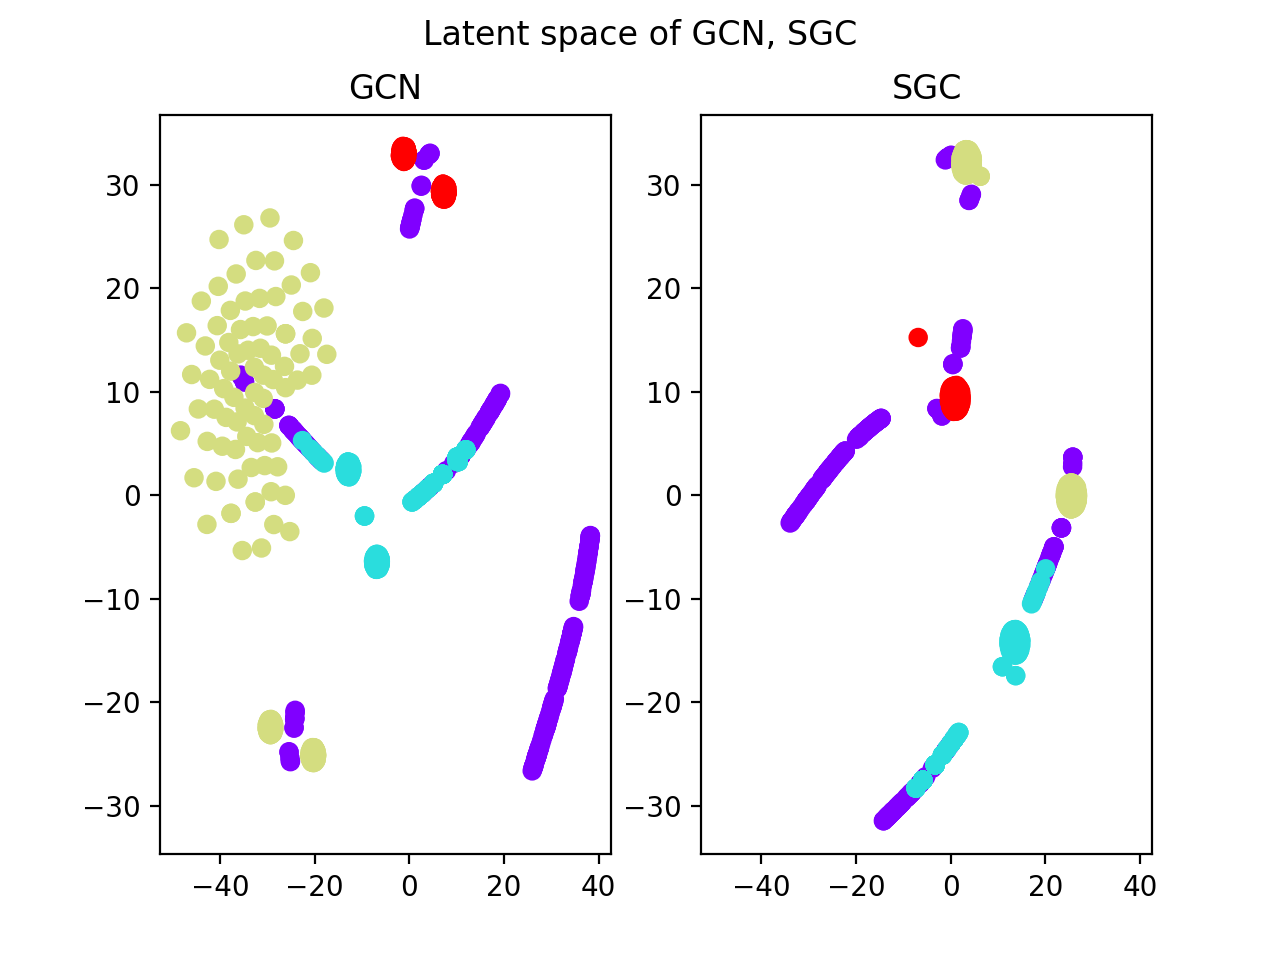
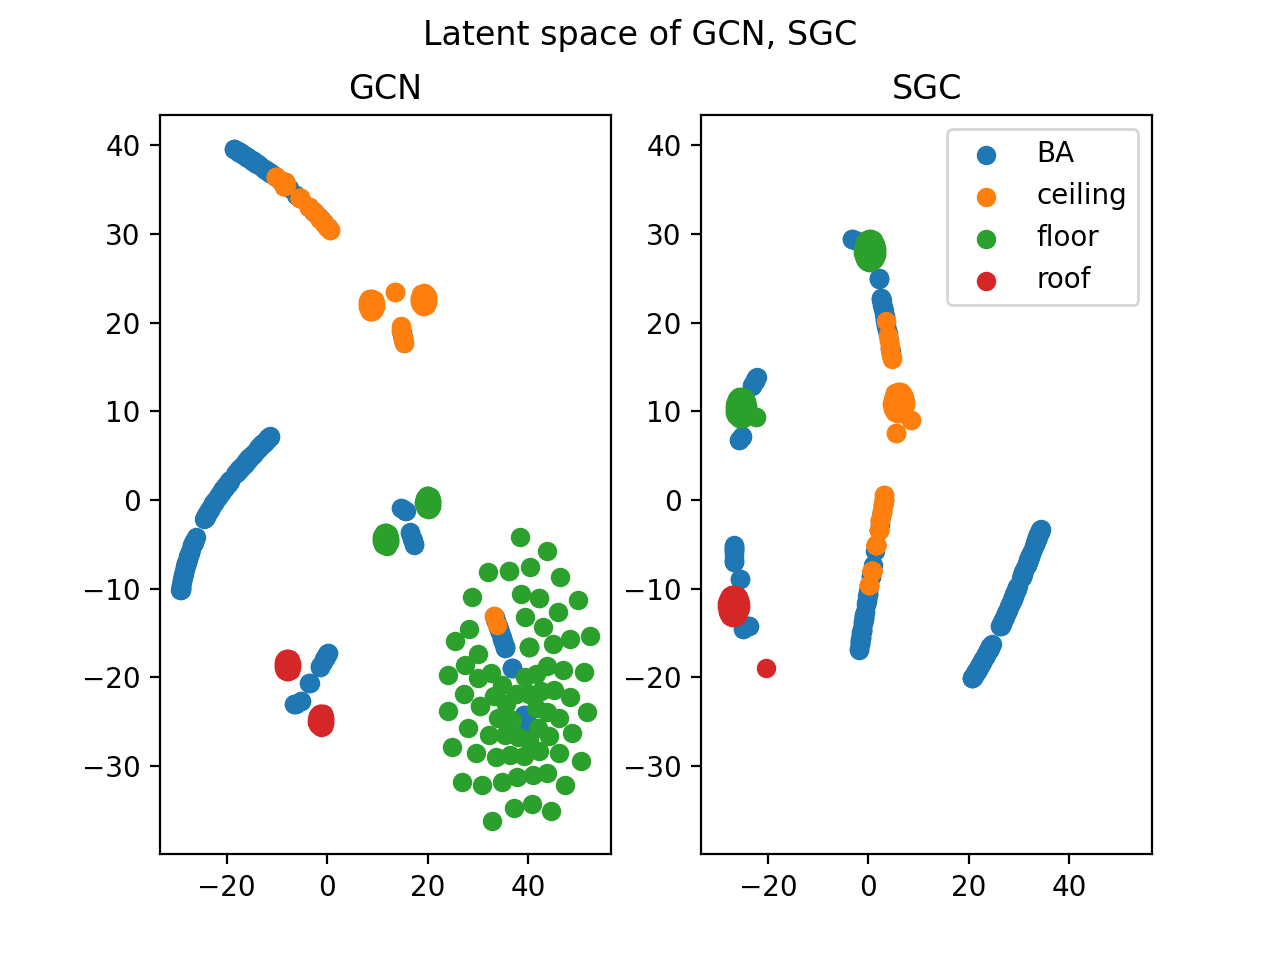
Better latent space figures

diff --git a/src/concepts/plotting.py b/src/concepts/plotting.py
@@ -4,6 +4,7 @@ import os.path as osp
 from torch_geometric.data import Data
 from tqdm import tqdm
 
+import torch
 from torch import argmax
 
 import matplotlib.pyplot as plt
@@ -159,11 +160,13 @@ def plot_samples(clustering_model: KMeans,
 
 def plot_latent_space(latent_data_list: List[NDArray],
                       labels: Tensor,
+                      label_names: List[str],
                       save_path: str,
                       names: List[str]) -> None:
     """Plot the 2D dimensionality reductions to visualise the latent space of different models and layers.
     INPUT
         latent_data     : The list of DR data
+        label_names     : Names for the labels
         data            : The labels for the dataset
         save_path       : The path to save the figures
     OUTPUT
@@ -172,10 +175,15 @@ def plot_latent_space(latent_data_list: List[NDArray],
     fig: FigureBase
     fig, axes = plt.subplots(1, len(latent_data_list), dpi=200)
     fig.suptitle(f'Latent space of {", ".join(names)}')
+    colors = ["tab:blue", "tab:orange", "tab:green", "tab:red"]
 
     name: Iterable = iter(names)
     for ax, data in zip(axes, latent_data_list):
-        ax.scatter(data[:,0], data[:,1], c=labels, cmap='rainbow')
+        for i in range(torch.max(labels) + 1):
+            ax.scatter(data[labels == i,0],
+                       data[labels == i,1],
+                       c=colors[i],
+                       label=label_names[i])
         ax.set_title(next(name))
 
     # For easier comparison keep the axes the same width and height
@@ -188,5 +196,6 @@ def plot_latent_space(latent_data_list: List[NDArray],
         ax.set_xlim(x_min, x_max)
         ax.set_ylim(y_min, y_max)
 
+    axes[1].legend()
     plt.savefig(osp.join(save_path, f"latent_space.png"))
 

diff --git a/diss/chapters/evaluation.tex b/diss/chapters/evaluation.tex
@@ -399,7 +399,7 @@ This presents the major issue with this technique which is that unfortunately SG
 
 Figure \ref{fig:SGCN-SGC-latent-space} demonstrates that the second layer of SGCN is very similar to that of SGC.
 This makes sense as the previous layer was an SGC layer and so the GCN layer is working from a different feature space.
-Notice the spread yellow labelled nodes \note{Include the labels please!!} which is also present in the GCN layers in \ref{fig:SGC-GCN-latent-space} and \ref{fig:SGCN-GCN-latent-space}.
+Notice the spread green labelled nodes (representing the house motif ``floor'') which is also present in the GCN layers in \ref{fig:SGC-GCN-latent-space} and \ref{fig:SGCN-GCN-latent-space}.
 Figure \ref{fig:SGCN-GCN-latent-space} shows that by the third and final layer of SGCN is very similar to that of GCN.
 Given the increase in performance by SGCN demonstrated in table \ref{tab:SGCN-acc} this likely to be a more optimal space.
 

diff --git a/src/similarity.py b/src/similarity.py
@@ -134,7 +134,19 @@ def main(args: Namespace,
 
     # t-SNE dimensionality reduction to visualise the latent space
     latent_data = tsne_reduction([activation_list1[best_layer[0]], activation_list2[best_layer[1]]], 2)
-    plot_latent_space(latent_data, labels, save_path, save_name.split("-")[:-2])
+
+    if dataset_name == "BA-Shapes":
+        plot_latent_space(latent_data,
+                          labels,
+                          ["BA", "ceiling", "floor", "roof"],
+                          save_path,
+                          save_name.split("-")[:-2])
+    else:
+        plot_latent_space(latent_data,
+                          labels,
+                          ["base", "motif"],
+                          save_path,
+                          save_name.split("-")[:-2])
 
 
 if __name__=='__main__':

diff --git a/diss/tables/motifs.tex b/diss/tables/motifs.tex
@@ -1,0 +1,17 @@
+\begin{table}
+    \centering
+    \begin{tabular}{cccc}
+        \textbf{Shape (House)} &
+        \textbf{Community} &
+        \textbf{Grid} &
+        \textbf{Cycle}\\
+        \midrule
+        \includegraphics[width=0.2\textwidth]{figures/house.png} &
+        \includegraphics[width=0.2\textwidth]{figures/community.png} &
+        \includegraphics[width=0.2\textwidth]{figures/grid.png} &
+        \includegraphics[width=0.2\textwidth]{figures/cycle.png} \\
+    \end{tabular}
+    \caption{The four different motifs used by the synthetic datasets. Each motif is attached to a specific base graph. Note that the community motif is created by combining two different shape motif graphs.}
+    \label{tab:motifs}
+\end{table}
+

diff --git a/src/concepts/cluster.py b/src/concepts/cluster.py
@@ -46,10 +46,10 @@ def tsne_reduction(activation_list: list[torch.Tensor],
     OUTPUT
         components          : A list of the latent spaces"""
     latent_data: List[NDArray] = []
-    tsne_model: TSNE = TSNE(n_components=components)
 
     for activations in activation_list:
         activation: NDArray = torch.squeeze(activations).detach().numpy()
+        tsne_model: TSNE = TSNE(n_components=components)
         data = tsne_model.fit_transform(activation)
         latent_data.append(data)
 
